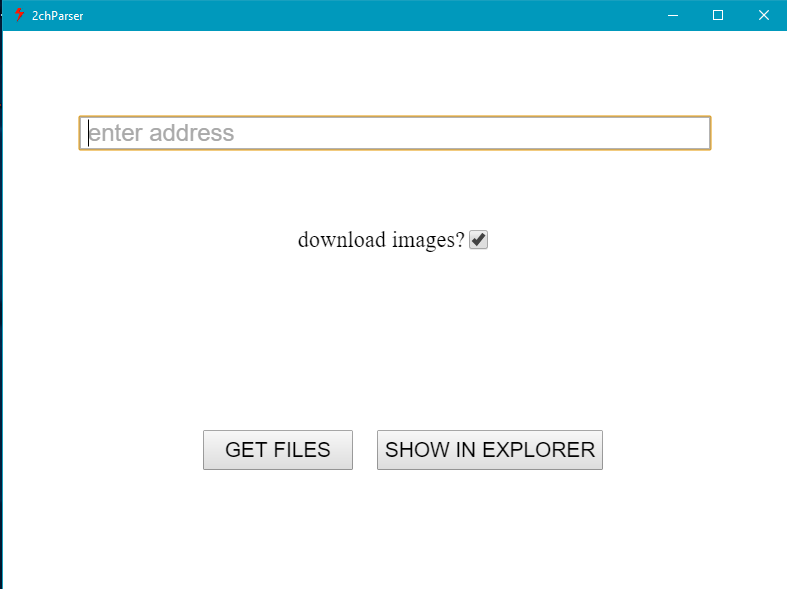
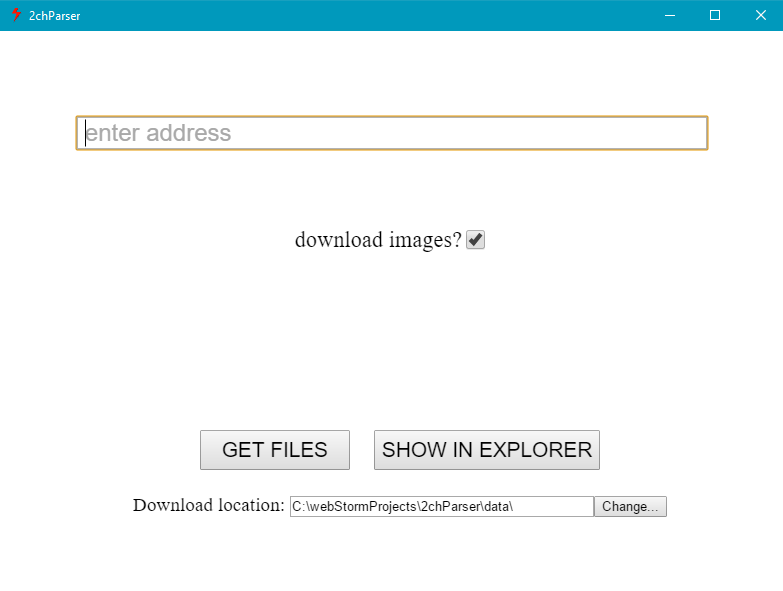
added the ability to change the default directory for downloading files

diff --git a/app/parser.js b/app/parser.js
@@ -4,9 +4,17 @@ const fs = require('fs');
 
 const request = require('request');
 
+const electron = require('electron');
+const remote = electron.remote;
+const mainProcess = remote.require('./main');
+
 var withImgs = false;
 var fileCounter = 0;
 var arrOfLinks = [];
+
+var folder = __dirname + "\\data\\";
+
+$('#folderAddress').val(folder);
 
 exports.getFiles = function (address) {
     address = address.replace('.html', '.json');
@@ -36,6 +44,7 @@ exports.getFiles = function (address) {
                     alert('Page not found, error 404');
                 else
                     alert('Can\'t parse this page');
+                return;
             }
             
             $('#btn-get').fadeOut(300, () => {
@@ -49,21 +58,21 @@ function downloadFile(path) {
     var href = 'https://2ch.hk/b/' + path;
     var name = /\d{13,15}/.exec(path);
     var extension = /\.\w{0,10}/.exec(path);
-    
+    var fileAddress = folder + name + extension;
     console.log(href);
     
-    let file = fs.createWriteStream("data/" + name + extension);
-    
+    let file = fs.createWriteStream(fileAddress);
+    console.log(folder + name + extension);
     request(href)
         .on('end', () => {
-            fileCounter++;
-            updateStatus();
-            
-            if (arrOfLinks.length && fileCounter <= arrOfLinks.length)
+            if (arrOfLinks.length && fileCounter < arrOfLinks.length) {
                 downloadFile(arrOfLinks[fileCounter]);
+                fileCounter++;
+                updateStatus();
+            }
             else {
-                arrOfLinks.length = 0;
-                fileCounter = 0;
+                alert('thread was successfully parsed');
+                toBegin();
             }
         })
         .on('error', (err) => {
@@ -81,7 +90,7 @@ function updateStatus() {
     $('#amount').text(fileCounter + ' out of ' + arrOfLinks.length);
 }
 
-$('#btn-break').on('click', function () {
+function toBegin() {
     $('#amount').fadeOut();
     
     $('#btn-break').fadeOut(300, () => {
@@ -89,4 +98,18 @@ $('#btn-break').on('click', function () {
     });
     arrOfLinks.length = 0;
     fileCounter = 0;
+}
+
+$('#btn-break').on('click', toBegin);
+
+$('#btn-showFiles').on('click', function () {
+    require('child_process').exec('start "" ' + '"' + folder + '"');
+});
+
+$('#folderChooser').on('click', _ => {
+    var newFolderAddress = mainProcess.selectDirectory();
+    if (newFolderAddress)
+        folder = newFolderAddress + '\\';
+    
+    $('#folderAddress').val(folder);
 });

diff --git a/parser.js b/parser.js
@@ -4,9 +4,17 @@ const fs = require('fs');
 
 const request = require('request');
 
+const electron = require('electron');
+const remote = electron.remote;
+const mainProcess = remote.require('./main');
+
 var withImgs = false;
 var fileCounter = 0;
 var arrOfLinks = [];
+
+var folder = __dirname + "\\data\\";
+
+$('#folderAddress').val(folder);
 
 exports.getFiles = function (address) {
     address = address.replace('.html', '.json');
@@ -36,6 +44,7 @@ exports.getFiles = function (address) {
                     alert('Page not found, error 404');
                 else
                     alert('Can\'t parse this page');
+                return;
             }
             
             $('#btn-get').fadeOut(300, () => {
@@ -49,21 +58,21 @@ function downloadFile(path) {
     var href = 'https://2ch.hk/b/' + path;
     var name = /\d{13,15}/.exec(path);
     var extension = /\.\w{0,10}/.exec(path);
-    
+    var fileAddress = folder + name + extension;
     console.log(href);
     
-    let file = fs.createWriteStream("data/" + name + extension);
-    
+    let file = fs.createWriteStream(fileAddress);
+    console.log(folder + name + extension);
     request(href)
         .on('end', () => {
-            fileCounter++;
-            updateStatus();
-            
-            if (arrOfLinks.length && fileCounter <= arrOfLinks.length)
+            if (arrOfLinks.length && fileCounter < arrOfLinks.length) {
                 downloadFile(arrOfLinks[fileCounter]);
+                fileCounter++;
+                updateStatus();
+            }
             else {
-                arrOfLinks.length = 0;
-                fileCounter = 0;
+                alert('thread was successfully parsed');
+                toBegin();
             }
         })
         .on('error', (err) => {
@@ -81,7 +90,7 @@ function updateStatus() {
     $('#amount').text(fileCounter + ' out of ' + arrOfLinks.length);
 }
 
-$('#btn-break').on('click', function () {
+function toBegin() {
     $('#amount').fadeOut();
     
     $('#btn-break').fadeOut(300, () => {
@@ -89,4 +98,18 @@ $('#btn-break').on('click', function () {
     });
     arrOfLinks.length = 0;
     fileCounter = 0;
+}
+
+$('#btn-break').on('click', toBegin);
+
+$('#btn-showFiles').on('click', function () {
+    require('child_process').exec('start "" ' + '"' + folder + '"');
+});
+
+$('#folderChooser').on('click', _ => {
+    var newFolderAddress = mainProcess.selectDirectory();
+    if (newFolderAddress)
+        folder = newFolderAddress + '\\';
+    
+    $('#folderAddress').val(folder);
 });

diff --git a/app/main.js b/app/main.js
@@ -6,9 +6,13 @@ const {BrowserWindow} = electron;
 
 const fs = require('fs');
 
+const dialog = electron.dialog;
+
 // Keep a global reference of the window object, if you don't, the window will
 // be closed automatically when the JavaScript object is garbage collected.
 let win;
+
+// this should be placed at top of main.js to handle setup events quickly
 if (handleSquirrelEvent()) {
     // squirrel event handled and app will exit in 1000ms, so don't do anything else
     return;
@@ -82,10 +86,11 @@ function handleSquirrelEvent() {
     }
 }
 
+
 function createWindow() {
     // Create the browser window.
     win = new BrowserWindow({width: 800, height: 600, icon: __dirname + '/ico.png'});
-    //win.setMenu(null);
+    win.setMenu(null);
     // and load the index.html of the app.
     win.loadURL(`file://${__dirname}/index.html`);
     
@@ -123,5 +128,8 @@ app.on('activate', () => {
     }
 });
 
-// In this file you can include the rest of your app's specific main process
-// code. You can also put them in separate files and require them here.
+exports.selectDirectory = function selectDirectory() {
+    return dialog.showOpenDialog(win, {
+        properties: ['openDirectory']
+    });
+};

diff --git a/main.js b/main.js
@@ -6,6 +6,8 @@ const {BrowserWindow} = electron;
 
 const fs = require('fs');
 
+const dialog = electron.dialog;
+
 // Keep a global reference of the window object, if you don't, the window will
 // be closed automatically when the JavaScript object is garbage collected.
 let win;
@@ -88,7 +90,7 @@ function handleSquirrelEvent() {
 function createWindow() {
     // Create the browser window.
     win = new BrowserWindow({width: 800, height: 600, icon: __dirname + '/ico.png'});
-    //win.setMenu(null);
+    win.setMenu(null);
     // and load the index.html of the app.
     win.loadURL(`file://${__dirname}/index.html`);
     
@@ -126,5 +128,8 @@ app.on('activate', () => {
     }
 });
 
-// In this file you can include the rest of your app's specific main process
-// code. You can also put them in separate files and require them here.
+exports.selectDirectory = function selectDirectory() {
+    return dialog.showOpenDialog(win, {
+        properties: ['openDirectory']
+    });
+};

diff --git a/app/index.html b/app/index.html
@@ -10,6 +10,7 @@
     <input type="text" placeholder="enter address" id="address" autofocus>
     <label id="withImages">download images?<input type="checkbox" checked></label>
     <p id="amount"></p>
+    <p id="downloadLocation">Download location: <input type="text" id="folderAddress"><button id="folderChooser">Change...</button></p>
     <div id="btnsWrapper">
         <button id="btn-get">GET FILES</button>
         <button id="btn-break">BREAK</button>

diff --git a/index.html b/index.html
@@ -10,6 +10,7 @@
     <input type="text" placeholder="enter address" id="address" autofocus>
     <label id="withImages">download images?<input type="checkbox" checked></label>
     <p id="amount"></p>
+    <p id="downloadLocation">Download location: <input type="text" id="folderAddress"><button id="folderChooser">Change...</button></p>
     <div id="btnsWrapper">
         <button id="btn-get">GET FILES</button>
         <button id="btn-break">BREAK</button>

diff --git a/app/style.css b/app/style.css
@@ -28,6 +28,17 @@ body {
     font-size: 3em;
 }
 
+#downloadLocation{
+    position: absolute;
+    bottom: 10%;
+    width: 100%;
+    font-size: 1.2em;
+}
+
+#folderAddress{
+    width: 300px;
+}
+
 #btnsWrapper {
     position: absolute;
     bottom: 20%;

diff --git a/style.css b/style.css
@@ -28,6 +28,17 @@ body {
     font-size: 3em;
 }
 
+#downloadLocation{
+    position: absolute;
+    bottom: 10%;
+    width: 100%;
+    font-size: 1.2em;
+}
+
+#folderAddress{
+    width: 300px;
+}
+
 #btnsWrapper {
     position: absolute;
     bottom: 20%;

diff --git a/app/handler.js b/app/handler.js
@@ -9,6 +9,3 @@ $('#btn-get').on('click', function () {
     }
 });
 
-$('#btn-showFiles').on('click', function () {
-    require('child_process').exec('start "" "data"');
-});

diff --git a/handler.js b/handler.js
@@ -9,6 +9,3 @@ $('#btn-get').on('click', function () {
     }
 });
 
-$('#btn-showFiles').on('click', function () {
-    require('child_process').exec('start "" "data"');
-});
